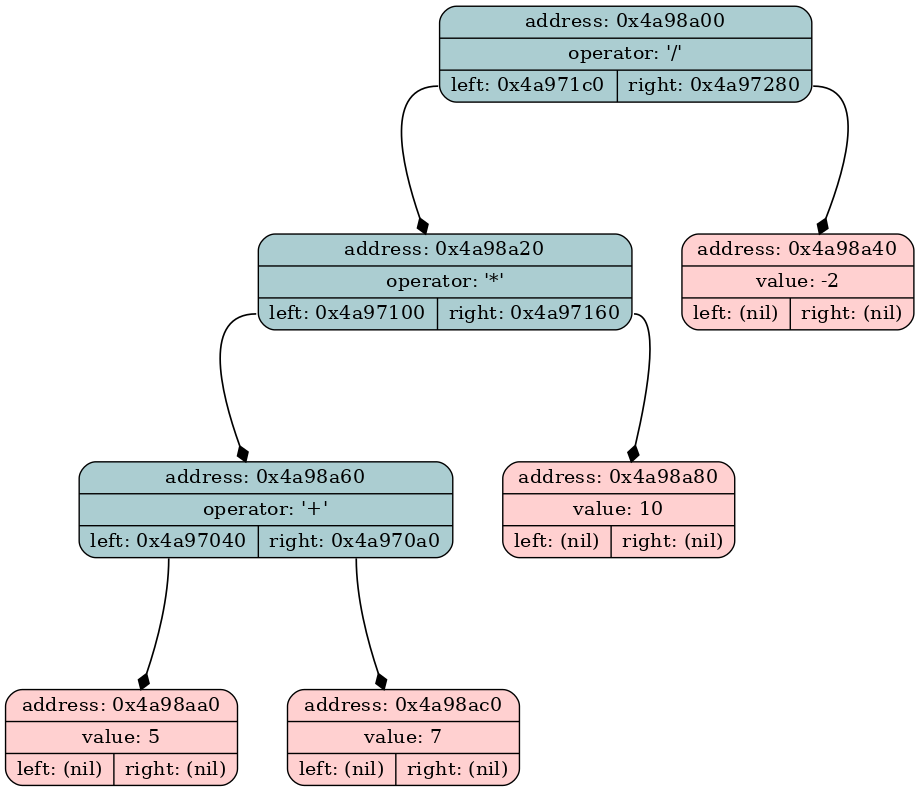
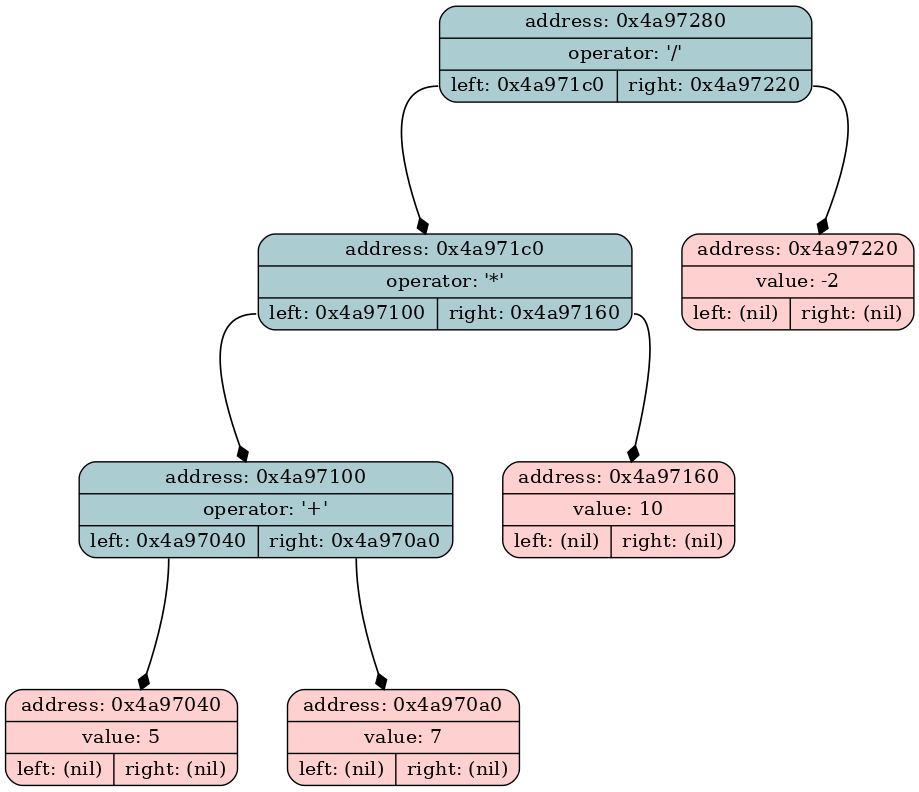
fixed graph dump

diff --git a/src/differentiator.cpp b/src/differentiator.cpp
@@ -26,7 +26,6 @@ Node* CreateNewNode(int TYPE_NUM, elem_t value, Node* left_node, Node* right_nod
     return new_node;
 }
 
-
 int queue_is_empty(Queue* queue) {
 
     return (queue->size == 0);
@@ -38,37 +37,35 @@ void queue_init(Queue* queue, int size) {
         size = QueueInitSize;
     }
     queue->capacity = size;
-    queue->data = (Node*) calloc(queue->capacity, sizeof(Node));
+    queue->elem_address = (Node**) calloc(queue->capacity, sizeof(Node*));
     queue->head = 1;
     queue->tail = 0;
     queue->size = 0;
 }
-void queue_enqueue(Queue* queue, Node value) {
+void queue_enqueue(Queue* queue, Node* value) {
 
     queue->tail++;
-    queue->data[queue->tail] = value;
+    queue->elem_address[queue->tail] = value;
     queue->size++;
 }
 Node* queue_dequeue(Queue* queue) {
 
-    // Node ret_value = queue->data[queue->head];
     queue->head++;
     queue->size--;
-
-    return &(queue->data[queue->head - 1]);
+    return (queue->elem_address[queue->head - 1]);
 }
 void queue_dtor(Queue* queue) {
 
-    free(queue->data);
+    free(queue->elem_address);
 }
-void queue_print(Queue queue) {
+// void queue_print(Queue queue) {
 
-    printf("head: %d;   tail: %d;   size: %d\n", queue.head, queue.tail, queue.size);
-    // for (int i = 1; i <= queue.size; i++) {
-    //     printf("%d ", queue.data[i].val);
-    // }
-    printf("\n");
-}
+//     printf("head: %d;   tail: %d;   size: %d\n", queue.head, queue.tail, queue.size);
+//     for (int i = 1; i <= queue.size; i++) {
+//         printf("%lg ", *queue.elem_address[i]->value.);
+//     }
+//     printf("\n");
+// }
 
 int TreeDump(Node* tree) {
 
@@ -81,13 +78,12 @@ int TreeDump(Node* tree) {
                               "\tfontsize = 20;\n"
                               "\trankdir  = TB;\n";
     DotPrint(dot_header);
-
     DotSetGraph("lightgreen", 1.3, 0.5, "rounded", "green", 2.);
-    DotSetEdge("dark", "diamond", 1., 1.2);
+    DotSetEdge("black", "diamond", 1., 1.2);
 
     Queue q = {};
     queue_init(&q, QueueInitSize);
-    queue_enqueue(&q, *tree);
+    queue_enqueue(&q, tree);
 
     int node_head = 1;
     int node_next = 2;
@@ -96,14 +92,14 @@ int TreeDump(Node* tree) {
 
         Node* ptr = queue_dequeue(&q);
         CreateGraphNode(dot_file, ptr, &node_head);
-
         if (ptr->left_branch) {
             CreateNextGraphNode(dot_file, ptr, &node_head, &node_next, LEFT);
-            queue_enqueue(&q, *(ptr->left_branch));
+            queue_enqueue(&q, ptr->left_branch);
         }
         if (ptr->right_branch) {
             CreateNextGraphNode(dot_file, ptr, &node_head, &node_next, RIGHT);
-            queue_enqueue(&q, *(ptr->right_branch));
+            queue_enqueue(&q, ptr->right_branch);
+
         }
         DotPrint("\n");
         node_head++;
@@ -126,12 +122,10 @@ void CreateGraphNode(FILE* dot_file, Node* ptr, int* node_counter) {
     if (ptr->type == NUMBER) {
         DotPrint("node%d [shape = Mrecord, style = filled, fillcolor = \"#FFD0D0\", label = \"{address: %p|value: %lg| { <ptr1> left: %p| <ptr2> right: %p}}\"]\n",
                 *node_counter,  ptr, ptr->value.number, ptr->left_branch, ptr->right_branch);
-        printf("%lf\n", ptr->value.number);
     }
     else {
         DotPrint("node%d [shape = Mrecord, style = filled, fillcolor = \"#ABCDD1\", label = \"{address: %p|operator: '%c'| { <ptr1> left: %p| <ptr2> right: %p}}\"]\n",
                 *node_counter,  ptr, ptr->value.oper, ptr->left_branch, ptr->right_branch);
-        printf("%c\n", ptr->value.oper);
     }
 }
   

diff --git a/include/differentiator.h b/include/differentiator.h
@@ -25,7 +25,7 @@ struct Node{
 typedef struct Node Node;
 
 typedef struct {
-    Node* data;
+    Node** elem_address;
     int head;
     int tail;
     int size;
@@ -35,7 +35,7 @@ typedef struct {
 const int QueueInitSize = 10;
 
 void queue_init(Queue* queue, int size);
-void queue_enqueue(Queue* queue, Node value);
+void queue_enqueue(Queue* queue, Node* value);
 Node* queue_dequeue(Queue* queue);
 void queue_dtor(Queue* queue);
 void queue_print(Queue queue);

diff --git a/src/main.cpp b/src/main.cpp
@@ -13,7 +13,6 @@ int main() {
     Node* node3 = CreateNewNode(OPER, '+', node1, node2);
     Node* node4 = CreateNewNode(NUMBER, 10, NULL, NULL);
     Node* node5 = CreateNewNode(OPER, '*', node3, node4);
-    Node* node6 = CreateNewNode(NUMBER, -1, NULL, NULL);
     Node* node7 = CreateNewNode(NUMBER, -2, NULL, NULL);
     Node* node8 = CreateNewNode(OPER, '//', node5, node7);
     tree = node8;
